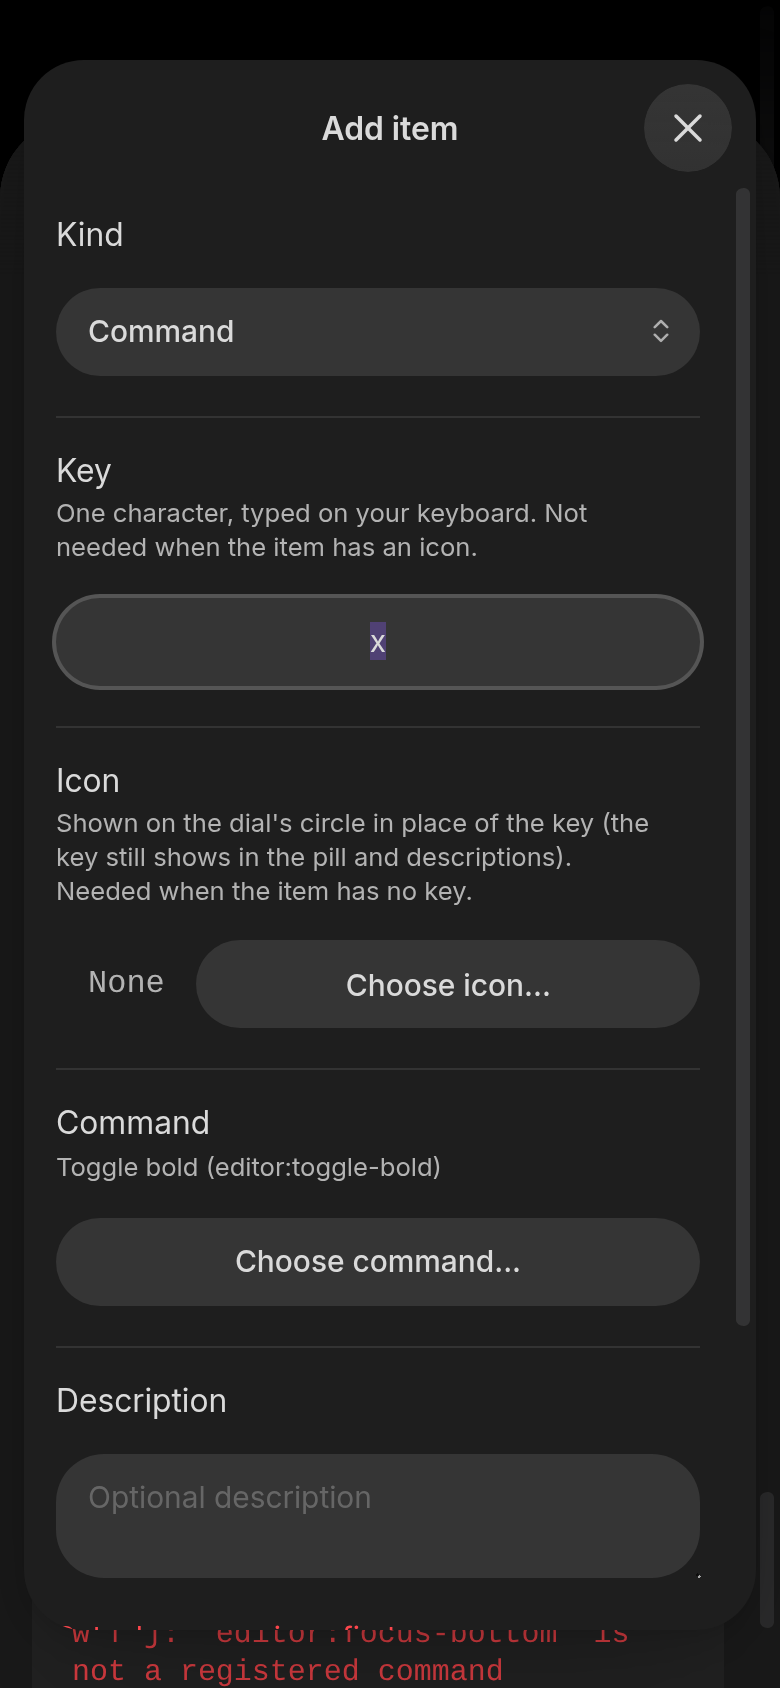
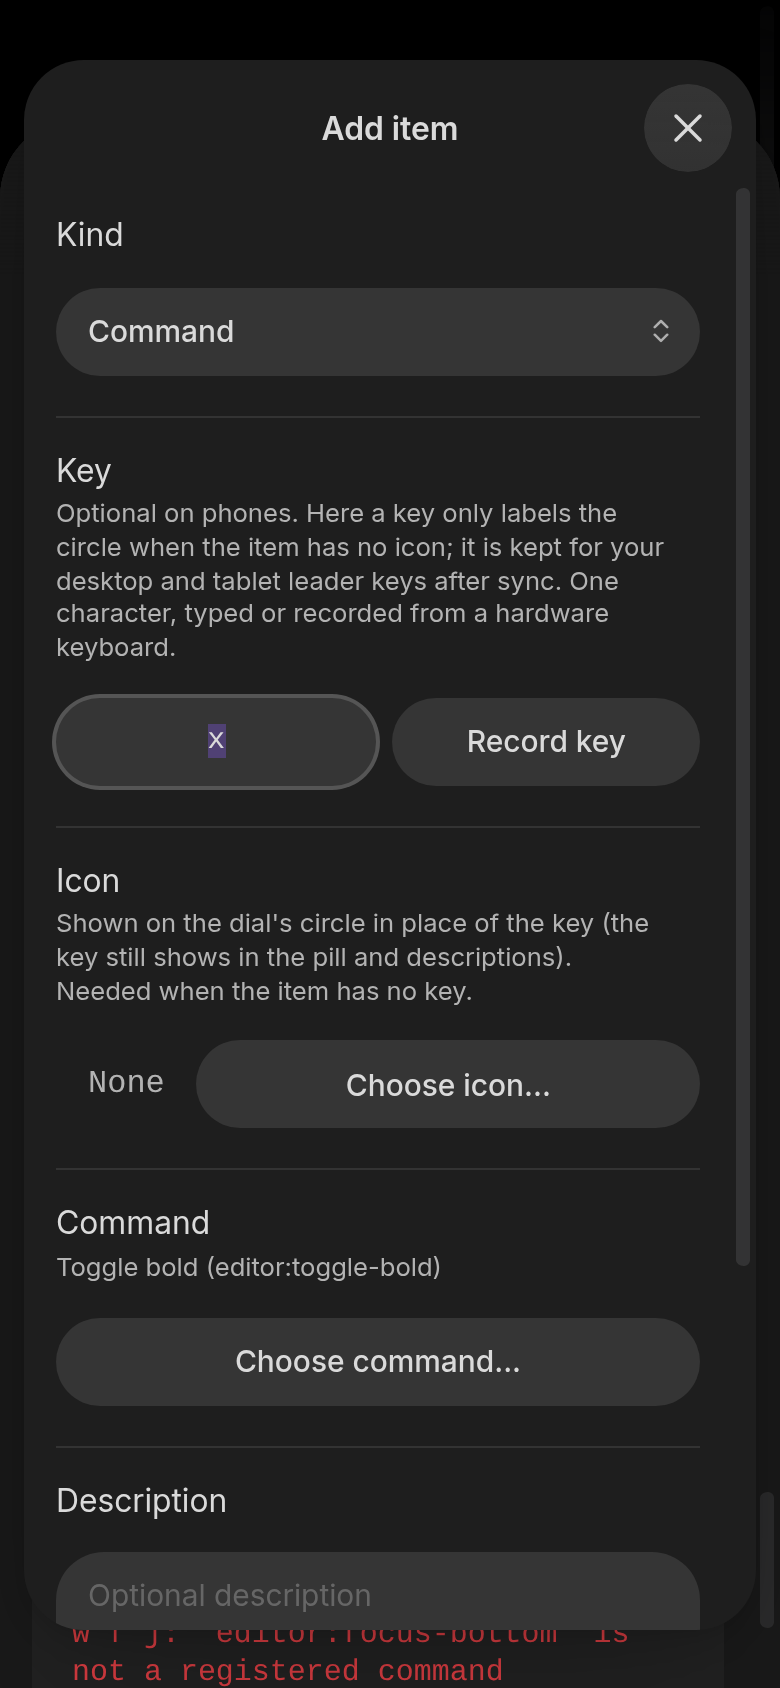
Say on phones that a key does nothing there, add keyless-group popup and refreshed phone screenshots

diff --git a/src/ui/entryEditorModal.ts b/src/ui/entryEditorModal.ts
@@ -1,6 +1,6 @@
 import { App, ButtonComponent, ExtraButtonComponent, getIcon, Modal, Platform, Scope, setIcon, Setting } from "obsidian";
 import type { EntryDraft, EntryKind } from "../entryDraft";
-import { deviceFromPlatform, hasKeyField, keyIsOptional, validateKeyAndIcon, type EntryDevice } from "../entryValidation";
+import { deviceFromPlatform, hasKeyField, keyDescription, keyIsOptional, validateKeyAndIcon, type EntryDevice } from "../entryValidation";
 import { keyFromEvent, keyToString } from "../keys";
 import { isKeylessId } from "../keyless";
 import { keyFromTyped } from "../typedKey";
@@ -158,15 +158,7 @@ export class EntryEditorModal extends Modal {
 		this.keyDisplayEl = null;
 		this.keyInputEl = null;
 		const keySetting = new Setting(contentEl).setName("Key");
-		if (this.device === "phone") {
-			keySetting.setDesc(
-				"One character, typed on your keyboard, or a key with Ctrl/Shift/Alt/Cmd recorded from a hardware keyboard. Not needed when the item has an icon.",
-			);
-		} else if (this.device === "tablet") {
-			keySetting.setDesc("One character, typed on your keyboard, or a key with Ctrl/Shift/Alt/Cmd recorded from a hardware keyboard.");
-		} else {
-			keySetting.setDesc("A single key, with optional Ctrl/Shift/Alt/Cmd.");
-		}
+		keySetting.setDesc(keyDescription(this.device));
 
 		if (hasKeyField(this.device)) {
 			keySetting.addText((text) => {

diff --git a/src/entryValidation.ts b/src/entryValidation.ts
@@ -27,6 +27,21 @@ export function keyIsOptional(device: EntryDevice): boolean {
 	return device === "phone";
 }
 
+/**
+ * The help text under the Key field. On a phone it says plainly that a key does nothing there (it
+ * only labels the dial's circle when the item has no icon) and is kept for the desktop and tablet
+ * leader keys once the keymap syncs.
+ */
+export function keyDescription(device: EntryDevice): string {
+	if (device === "phone") {
+		return "Optional on phones. Here a key only labels the circle when the item has no icon; it is kept for your desktop and tablet leader keys after sync. One character, typed or recorded from a hardware keyboard.";
+	}
+	if (device === "tablet") {
+		return "One character, typed on your keyboard, or a key with Ctrl/Shift/Alt/Cmd recorded from a hardware keyboard.";
+	}
+	return "A single key, with optional Ctrl/Shift/Alt/Cmd.";
+}
+
 /** The inline error for a key/icon pair, or null when the device accepts it. */
 export function validateKeyAndIcon(device: EntryDevice, rawKey: string, icon: string): string | null {
 	const hasKey = rawKey.trim().length > 0;

diff --git a/tests/entryValidation.test.ts b/tests/entryValidation.test.ts
@@ -2,6 +2,7 @@ import {
 	deviceFromPlatform,
 	entryNeeds,
 	hasKeyField,
+	keyDescription,
 	keyIsOptional,
 	validateKeyAndIcon,
 } from "../src/entryValidation";
@@ -59,5 +60,19 @@ describe("entryNeeds: the tree editor's note on an existing entry", () => {
 		expect(entryNeeds("phone", false, "star")).toBeNull();
 		expect(entryNeeds("phone", false, undefined)).toBe("Needs a key or an icon");
 		expect(entryNeeds("phone", false, " ")).toBe("Needs a key or an icon");
+	});
+});
+
+describe("keyDescription", () => {
+	it("tells a phone that a key does nothing there and is kept for desktop and tablet", () => {
+		const text = keyDescription("phone");
+		expect(text).toMatch(/^Optional on phones/);
+		expect(text).toMatch(/only labels the circle when the item has no icon/);
+		expect(text).toMatch(/desktop and tablet leader keys after sync/);
+	});
+
+	it("does not call the key optional on a tablet or desktop", () => {
+		expect(keyDescription("tablet")).not.toMatch(/optional on phones/i);
+		expect(keyDescription("desktop")).not.toMatch(/optional on phones/i);
 	});
 });

diff --git a/README.md b/README.md
@@ -116,7 +116,9 @@ circle falls back to the key. Keymaps written before `icon` existed load unchang
 #### Items with no key
 
 A phone has no hotkeys, and on the dial the key only labels a circle, so on a phone an item needs
-**a key or an icon** (either one is enough). An item saved with an icon and no key is stored in the
+**a key or an icon** (either one is enough). A key set on a phone does nothing there: it only labels
+the circle when the item has no icon, and is kept so the same item has its leader key on your desktop
+and tablet after the keymap syncs (the **Key** field in the dialog says so). An item saved with an icon and no key is stored in the
 YAML under a placeholder id, `nokey1`, `nokey2`, and so on, since a keymap names its items by key:
 
 ```yaml
@@ -143,6 +145,10 @@ has not updated yet.
 ![Mobile dial drawing an icon-only item as its icon, dark theme](docs/screenshots/key-entry/phone-dial-icon-only-dark.png)
 
 ![Tree editor on a tablet marking a keyless item Needs a key, light theme](docs/screenshots/key-entry/tablet-tree-needs-key-light.png)
+
+![Desktop popup for a group whose items all lack a key, with a note saying so, dark theme](docs/screenshots/key-entry/desktop-popup-keyless-group-note-dark.png)
+
+![Desktop popup for a group whose items all lack a key, with a note saying so, light theme](docs/screenshots/key-entry/desktop-popup-keyless-group-note-light.png)
 
 ![Edit dialog on a tablet for a keyless item, asking for a key first, dark theme](docs/screenshots/key-entry/tablet-edit-keyless-dark.png)
 
